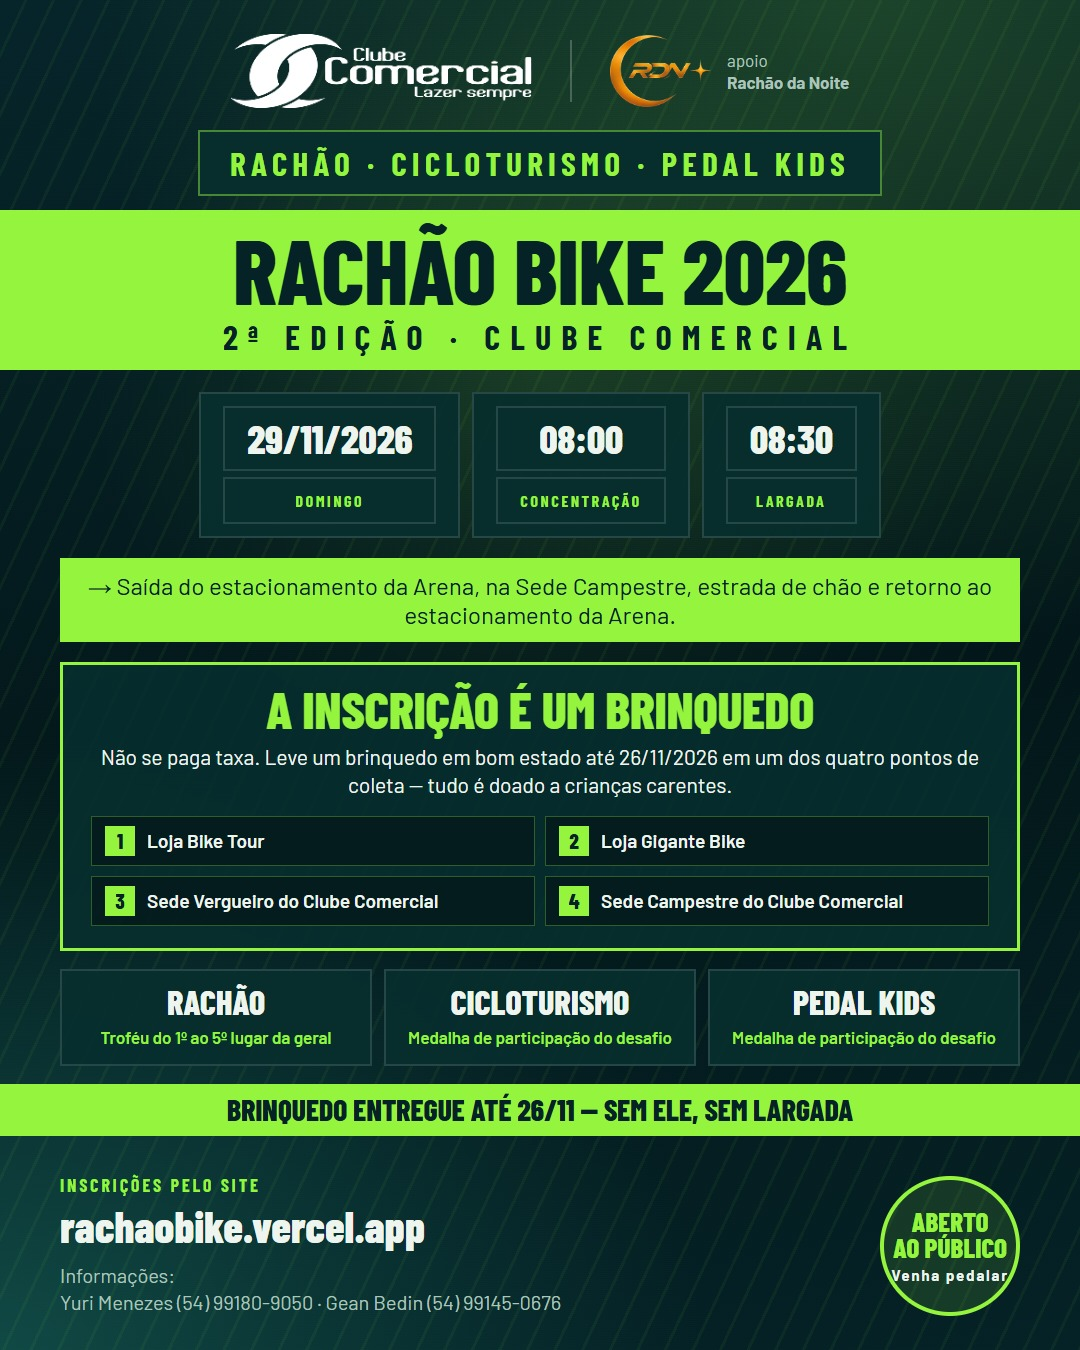
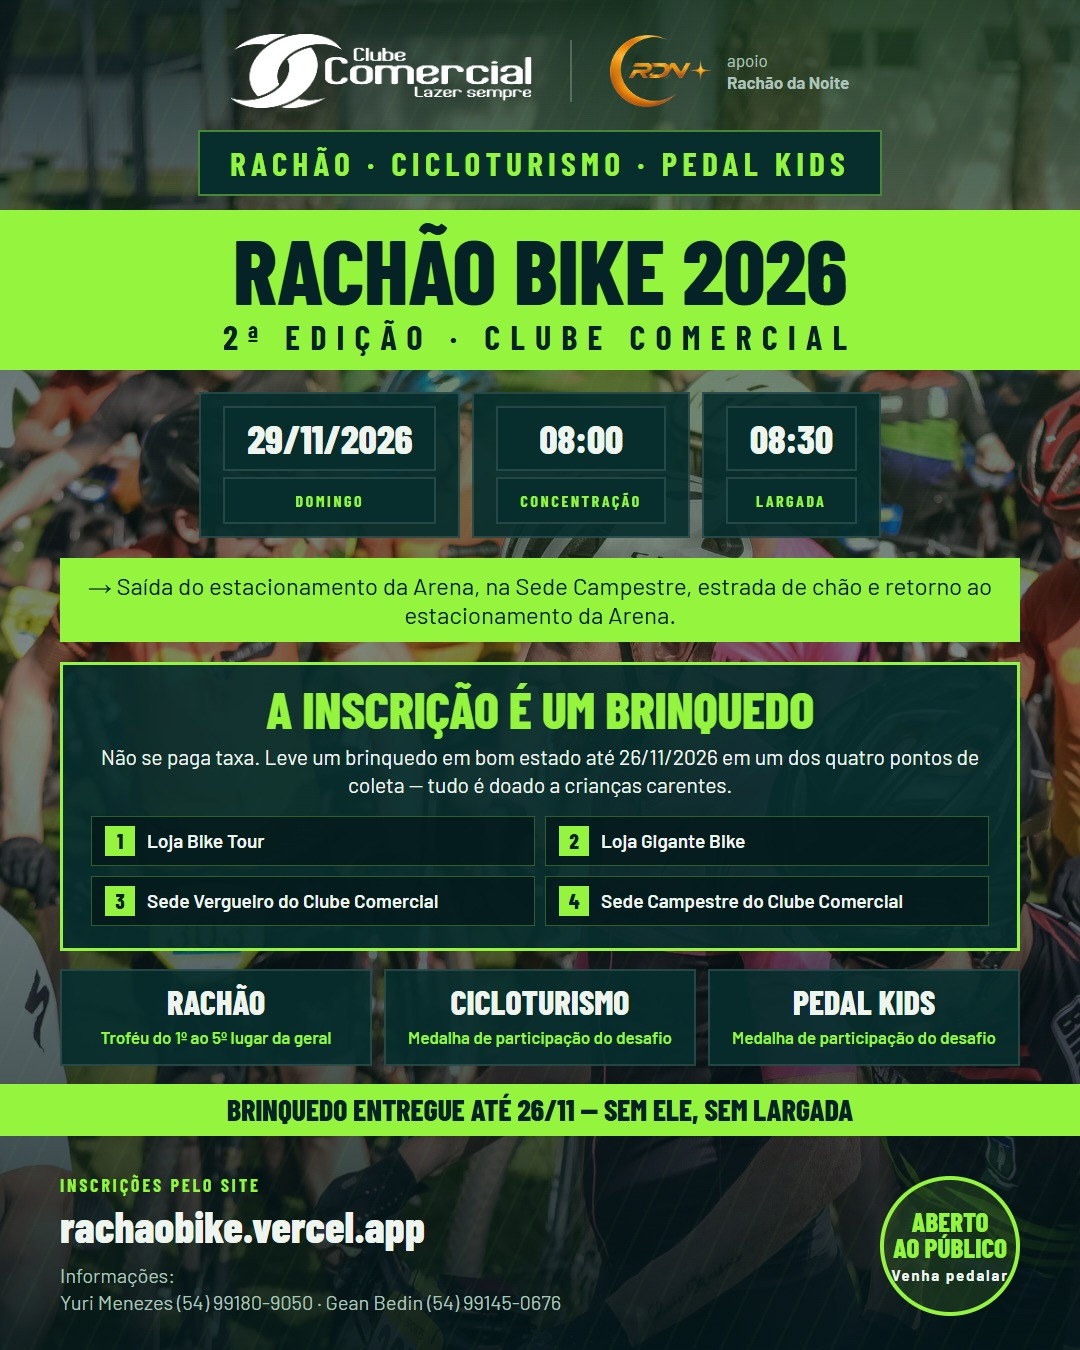
As fotos do evento entram no site e no flyer
O Yuri mandou duas do acervo da organização. A primeira é a cara do
Rachão: adulto e criança lado a lado sob o pórtico, com o pelotão
atrás — competição e Pedal Kids no mesmo quadro, que é exatamente o que
o evento é. Ela virou a imagem da capa e a miniatura que o WhatsApp
mostra. O flyer, que ocupava esse lugar, continua a um clique de
distância, e agora baixa com nome em vez de abrir na tela do celular.

Por que a foto e não o flyer na miniatura: o flyer é um retrato cheio
de texto miúdo e, recortado no quadro que esses aplicativos usam, vira
uma tarja verde ilegível. A foto já sai cortada em 1200x630.

No celular ela vem antes do título. Quase todo mundo vai chegar por um
link no grupo, e a imagem conta do que se trata antes de a pessoa ler
qualquer coisa; no computador ela volta para o lado do texto.

A segunda foto, do pelotão reunido, foi para dois lugares: o cartão
"sem brinquedo, sem vaga" — onde amarra com a legenda — e o fundo do
flyer, que até agora era liso. Era a pendência que eu mesmo tinha
anotado quando montei a peça sem foto em alta; agora ela tem o mesmo
pelotão ao fundo que o impresso de 2025 tinha.

Os originais somam 5 MB e 3.500 px. scripts/fotos.mjs reduz em etapas
de metade por vez, porque ir de 3.500 a 1.600 de uma vez só serrilha a
imagem, e corta o 1200x630 um pouco acima do centro — em foto de gente,
o que interessa são os rostos.

As legendas não dizem de que ano são as fotos: vieram do acervo e eu
não sei a edição.

diff --git a/app/page.tsx b/app/page.tsx
@@ -105,7 +105,7 @@ export default function Pagina() {
             className="absolute -bottom-56 -left-48 -z-10 h-[34rem] w-[34rem] rounded-full bg-petroleo-600/35 blur-3xl"
           />
 
-          <div className="mx-auto grid max-w-6xl items-center gap-14 px-5 lg:grid-cols-[1.15fr_0.85fr]">
+          <div className="mx-auto grid max-w-6xl items-center gap-14 px-5 lg:grid-cols-[1fr_1.05fr]">
             <div className="min-w-0">
               <p className="rotulo inline-flex items-center gap-2.5 rounded-full border border-limao/40 bg-limao/10 px-4 py-2 text-[0.7rem] text-limao">
                 <span className="size-1.5 rounded-full bg-limao" />
@@ -174,20 +174,39 @@ export default function Pagina() {
               </p>
             </div>
 
-            <div className="relative mx-auto w-full max-w-sm min-w-0 lg:max-w-none">
+            {/* No celular a foto vem antes do título: quase todo mundo chega
+                por um link no WhatsApp, e a imagem diz do que se trata antes
+                de a pessoa ler qualquer coisa. No computador ela volta para a
+                direita, ao lado do texto. */}
+            <div className="relative mx-auto -order-1 w-full min-w-0 lg:order-none">
               <div
                 aria-hidden="true"
                 className="absolute -inset-4 -z-10 rotate-2 rounded-3xl bg-gradient-to-br from-limao/30 via-petroleo-600/30 to-transparent blur-lg"
               />
+              {/* A foto do ano passado é a capa do evento: adulto e criança no
+                  mesmo quadro, que é o que o Rachão é. O flyer continua logo
+                  abaixo, para quem quer a peça com todas as informações. */}
               <Image
-                src="/flyer.jpg"
-                alt={`Flyer do ${EVENTO.nome}`}
-                width={1080}
-                height={1350}
+                src="/fotos/largada.jpg"
+                alt="Ciclistas e uma criança com suas bikes sob o pórtico de chegada, antes da largada do Rachão Bike"
+                width={1600}
+                height={1067}
                 priority
-                sizes="(max-width: 1024px) 90vw, 420px"
+                sizes="(max-width: 1024px) 92vw, 520px"
                 className="w-full rounded-2xl border border-white/10 shadow-2xl shadow-black/60"
               />
+              <p className="mt-3 flex flex-wrap items-center justify-between gap-x-4 gap-y-1 text-xs text-neve-500">
+                {/* Sem datar a foto: ela veio do acervo da organização e eu
+                    não sei de qual edição é. */}
+                <span>Na largada, as três provas saem do mesmo lugar</span>
+                <a
+                  href="/flyer.jpg"
+                  download
+                  className="font-semibold text-limao transition hover:text-limao-claro"
+                >
+                  Baixar o flyer
+                </a>
+              </p>
             </div>
           </div>
         </section>
@@ -284,6 +303,21 @@ export default function Pagina() {
                 {CONTATO_PRINCIPAL.nome.split(" ")[0]}{" "}
                 no WhatsApp antes de comprar.
               </p>
+
+              <figure className="mt-7">
+                <Image
+                  src="/fotos/pelotao.jpg"
+                  alt="Pelotão de ciclistas reunido na grama antes da largada"
+                  width={1600}
+                  height={1067}
+                  sizes="(max-width: 1024px) 92vw, 460px"
+                  className="w-full rounded-2xl border border-white/10"
+                />
+                <figcaption className="mt-2 text-xs text-neve-500">
+                  A concentração, antes de soltar. Este ano, cada bike dessas
+                  chega com um brinquedo já entregue.
+                </figcaption>
+              </figure>
             </div>
           </div>
         </section>

diff --git a/scripts/flyer/peca.html b/scripts/flyer/peca.html
@@ -46,34 +46,62 @@
       /* Fundo: o impresso de 2025 tinha foto do pelotão. Sem a foto em alta,
          o lugar dela é ocupado por um degradê fundo com a mesma textura
          diagonal do site — some na impressão, aparece na tela. */
+      .foto,
       .fundo,
       .trama,
       .brilho {
         position: absolute;
         inset: 0;
+      }
+
+      /* A foto do pelotão por baixo de tudo, como no impresso de 2025. O
+         recorte já vem em 1080x1350 de scripts/fotos.mjs: deixar o navegador
+         cortar uma paisagem aqui jogaria os rostos para fora do quadro. */
+      .foto {
+        z-index: -4;
+        background-image: url('fotos/pelotao-retrato.jpg');
+        background-size: cover;
+        background-position: center 42%;
+      }
+
+      .fundo {
+        z-index: -3;
+      }
+
+      .trama {
+        z-index: -2;
+      }
+
+      .brilho {
         z-index: -1;
       }
 
+      /* Véu por cima da foto. Sem ele, texto branco sobre grama ensolarada e
+         camisa laranja não se lê. Mais fechado em cima e embaixo, onde ficam
+         as marcas e o endereço do site; mais aberto no meio, onde as caixas
+         escuras já fazem o contraste e a foto pode respirar. */
       .fundo {
         background:
           radial-gradient(
             120% 80% at 80% 0%,
-            rgba(149, 244, 62, 0.16),
+            rgba(149, 244, 62, 0.14),
             transparent 60%
           ),
-          radial-gradient(
-            100% 70% at 0% 100%,
-            rgba(26, 107, 97, 0.55),
-            transparent 65%
-          ),
-          linear-gradient(170deg, #06252a 0%, #03171a 55%, #052226 100%);
+          linear-gradient(
+            180deg,
+            rgba(3, 23, 26, 0.88) 0%,
+            rgba(3, 23, 26, 0.62) 20%,
+            rgba(3, 23, 26, 0.5) 52%,
+            rgba(3, 23, 26, 0.74) 84%,
+            rgba(3, 23, 26, 0.92) 100%
+          );
       }
 
       .trama {
         background-image: repeating-linear-gradient(
           115deg,
           transparent 0 22px,
-          rgba(149, 244, 62, 0.05) 22px 25px
+          rgba(149, 244, 62, 0.025) 22px 25px
         );
       }
 
@@ -360,6 +388,7 @@
   </head>
   <body>
     <div class="peca">
+      <div class="foto"></div>
       <div class="fundo"></div>
       <div class="trama"></div>
       <div class="brilho"></div>

diff --git a/app/layout.tsx b/app/layout.tsx
@@ -6,8 +6,8 @@ import "./globals.css";
 const DESCRICAO = `A inscrição do ${EVENTO.nome} custa um brinquedo. Entregue em um dos quatro pontos de coleta até ${EVENTO.prazoBrinquedoCurto} e pedale no dia ${EVENTO.dataCurta}, na ${EVENTO.sede}, em ${EVENTO.cidade}.`;
 
 /**
- * Endereço público do site — é o que transforma "/flyer.jpg" na URL absoluta
- * que o WhatsApp precisa para mostrar a miniatura.
+ * Endereço público do site — é o que transforma "/fotos/largada-og.jpg" na
+ * URL absoluta que o WhatsApp precisa para mostrar a miniatura.
  *
  * NEXT_PUBLIC_SITE_URL existe para o dia em que o clube quiser domínio
  * próprio: basta cadastrar a variável na Vercel, sem tocar no código.
@@ -27,8 +27,21 @@ export const metadata: Metadata = {
     description: DESCRICAO,
     locale: "pt_BR",
     type: "website",
+    /*
+     * A foto, e não o flyer, é a miniatura que o WhatsApp mostra.
+     *
+     * O flyer é um retrato cheio de texto miúdo; recortado no quadro que o
+     * WhatsApp usa, vira uma tarja verde ilegível. A foto já está cortada em
+     * 1200x630, a proporção que esses aplicativos esperam, e diz num relance
+     * do que se trata.
+     */
     images: [
-      { url: "/flyer.jpg", width: 1080, height: 1350, alt: EVENTO.nome },
+      {
+        url: "/fotos/largada-og.jpg",
+        width: 1200,
+        height: 630,
+        alt: `Ciclistas e uma criança na largada do ${EVENTO.nome}`,
+      },
     ],
   },
 };

diff --git a/next.config.ts b/next.config.ts
@@ -57,6 +57,18 @@ const nextConfig: NextConfig = {
           },
         ],
       },
+
+      // Mesma história do GPX: no celular, o atributo `download` do link não
+      // basta e o flyer abriria na tela em vez de ir para a galeria.
+      {
+        source: "/flyer.jpg",
+        headers: [
+          {
+            key: "Content-Disposition",
+            value: 'attachment; filename="rachao-bike-2026.jpg"',
+          },
+        ],
+      },
     ];
   },
 };
